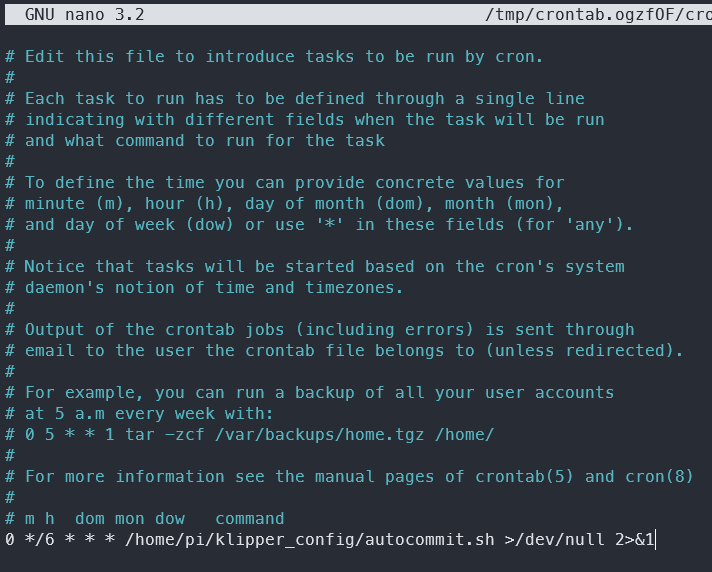
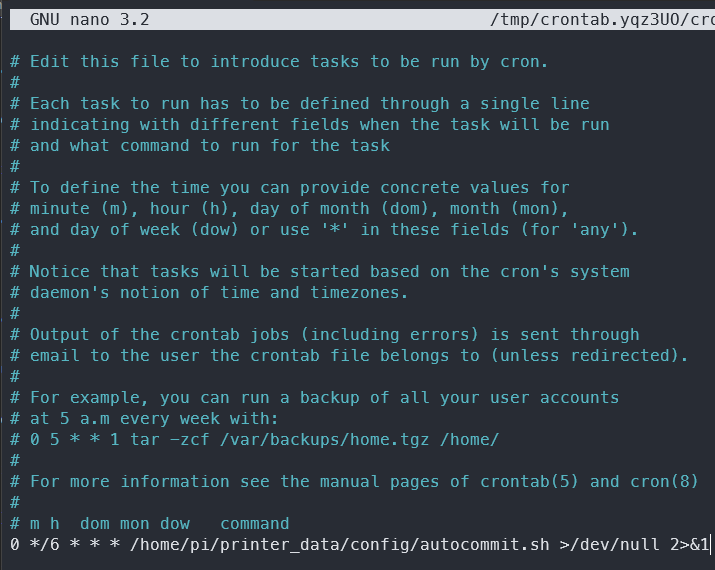
more paths

Changed region(s): [[0.0, 0.0895, 0.9888, 0.9842], [0.0, 0.0, 1.0, 0.0596], [0.9579, 0.9246, 0.9888, 0.9842]]

diff --git a/community/howto/EricZimmerman/BackupConfigToGithub.md b/community/howto/EricZimmerman/BackupConfigToGithub.md
@@ -355,12 +355,12 @@ Enjoy your new backups and never worry again about your config files being unava
 
 If you want to maintain a backup via cron, visit <a href="https://crontab-generator.org/https://crontab-generator.org/" target="_blank">this</a> site and select the appropriate options.
 
-Script to execute: `/home/pi/klipper_config/autocommit.sh`
+Script to execute: `/home/pi/printer_data/config/autocommit.sh`
 
 This results in a crontab entry similar to:
 
 ```bash
-0 */6 * * * /home/pi/klipper_config/autocommit.sh >/dev/null 2>&1
+0 */6 * * * /home/pi/printer_data/config/autocommit.sh >/dev/null 2>&1
 ```
 
 which can then be added to your crontab file via the `crontab -e` command by pasting it in at the bottom:
